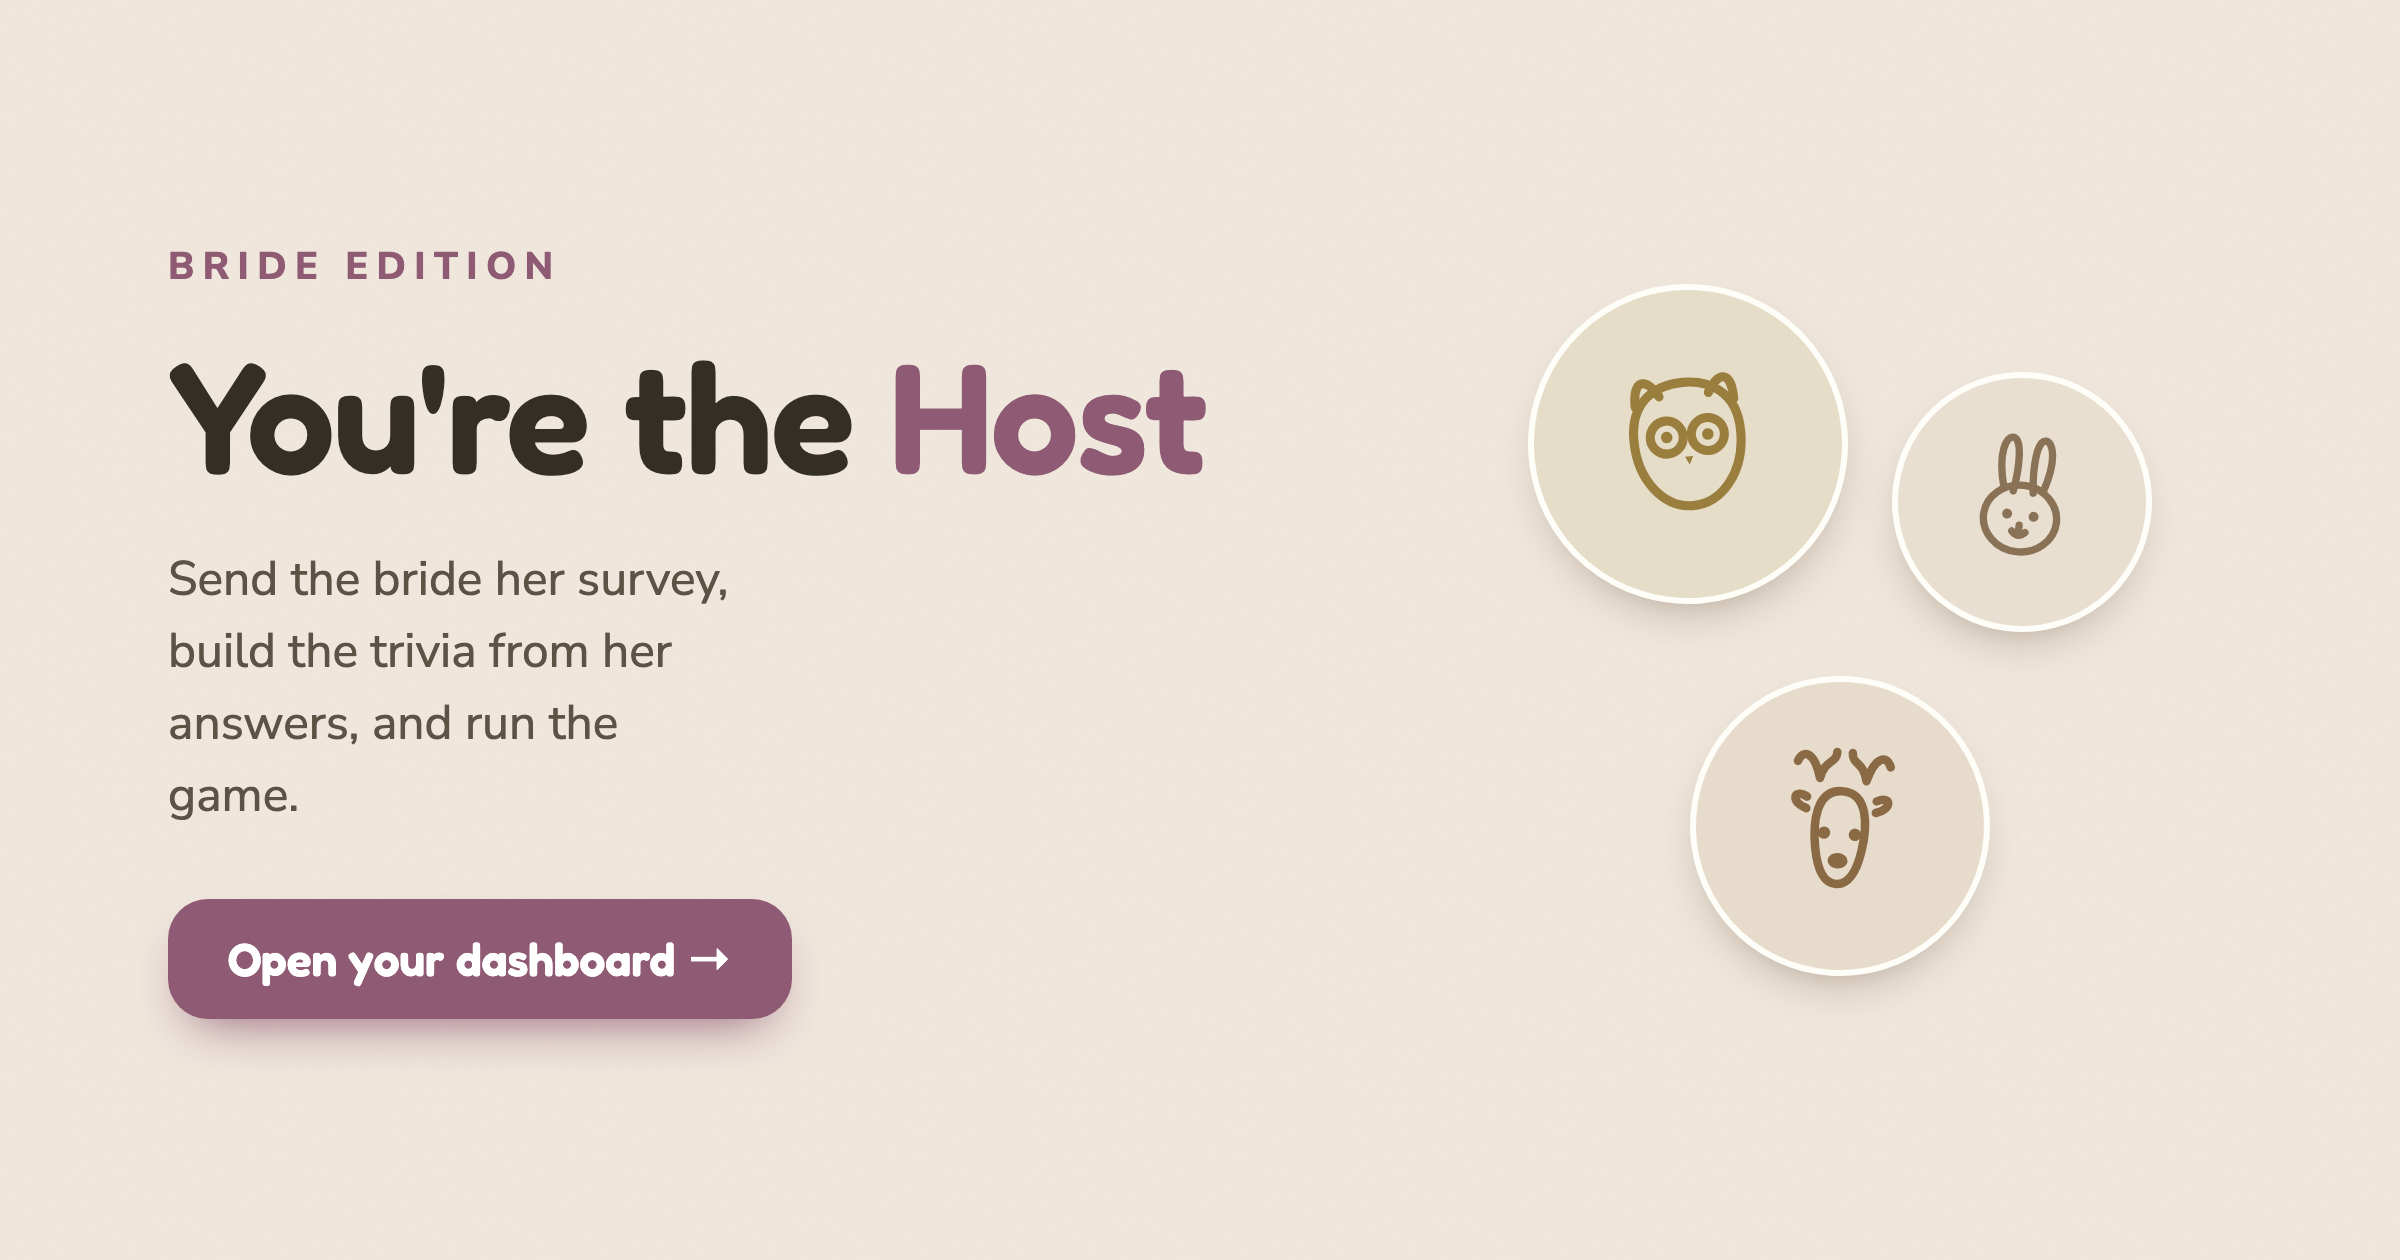
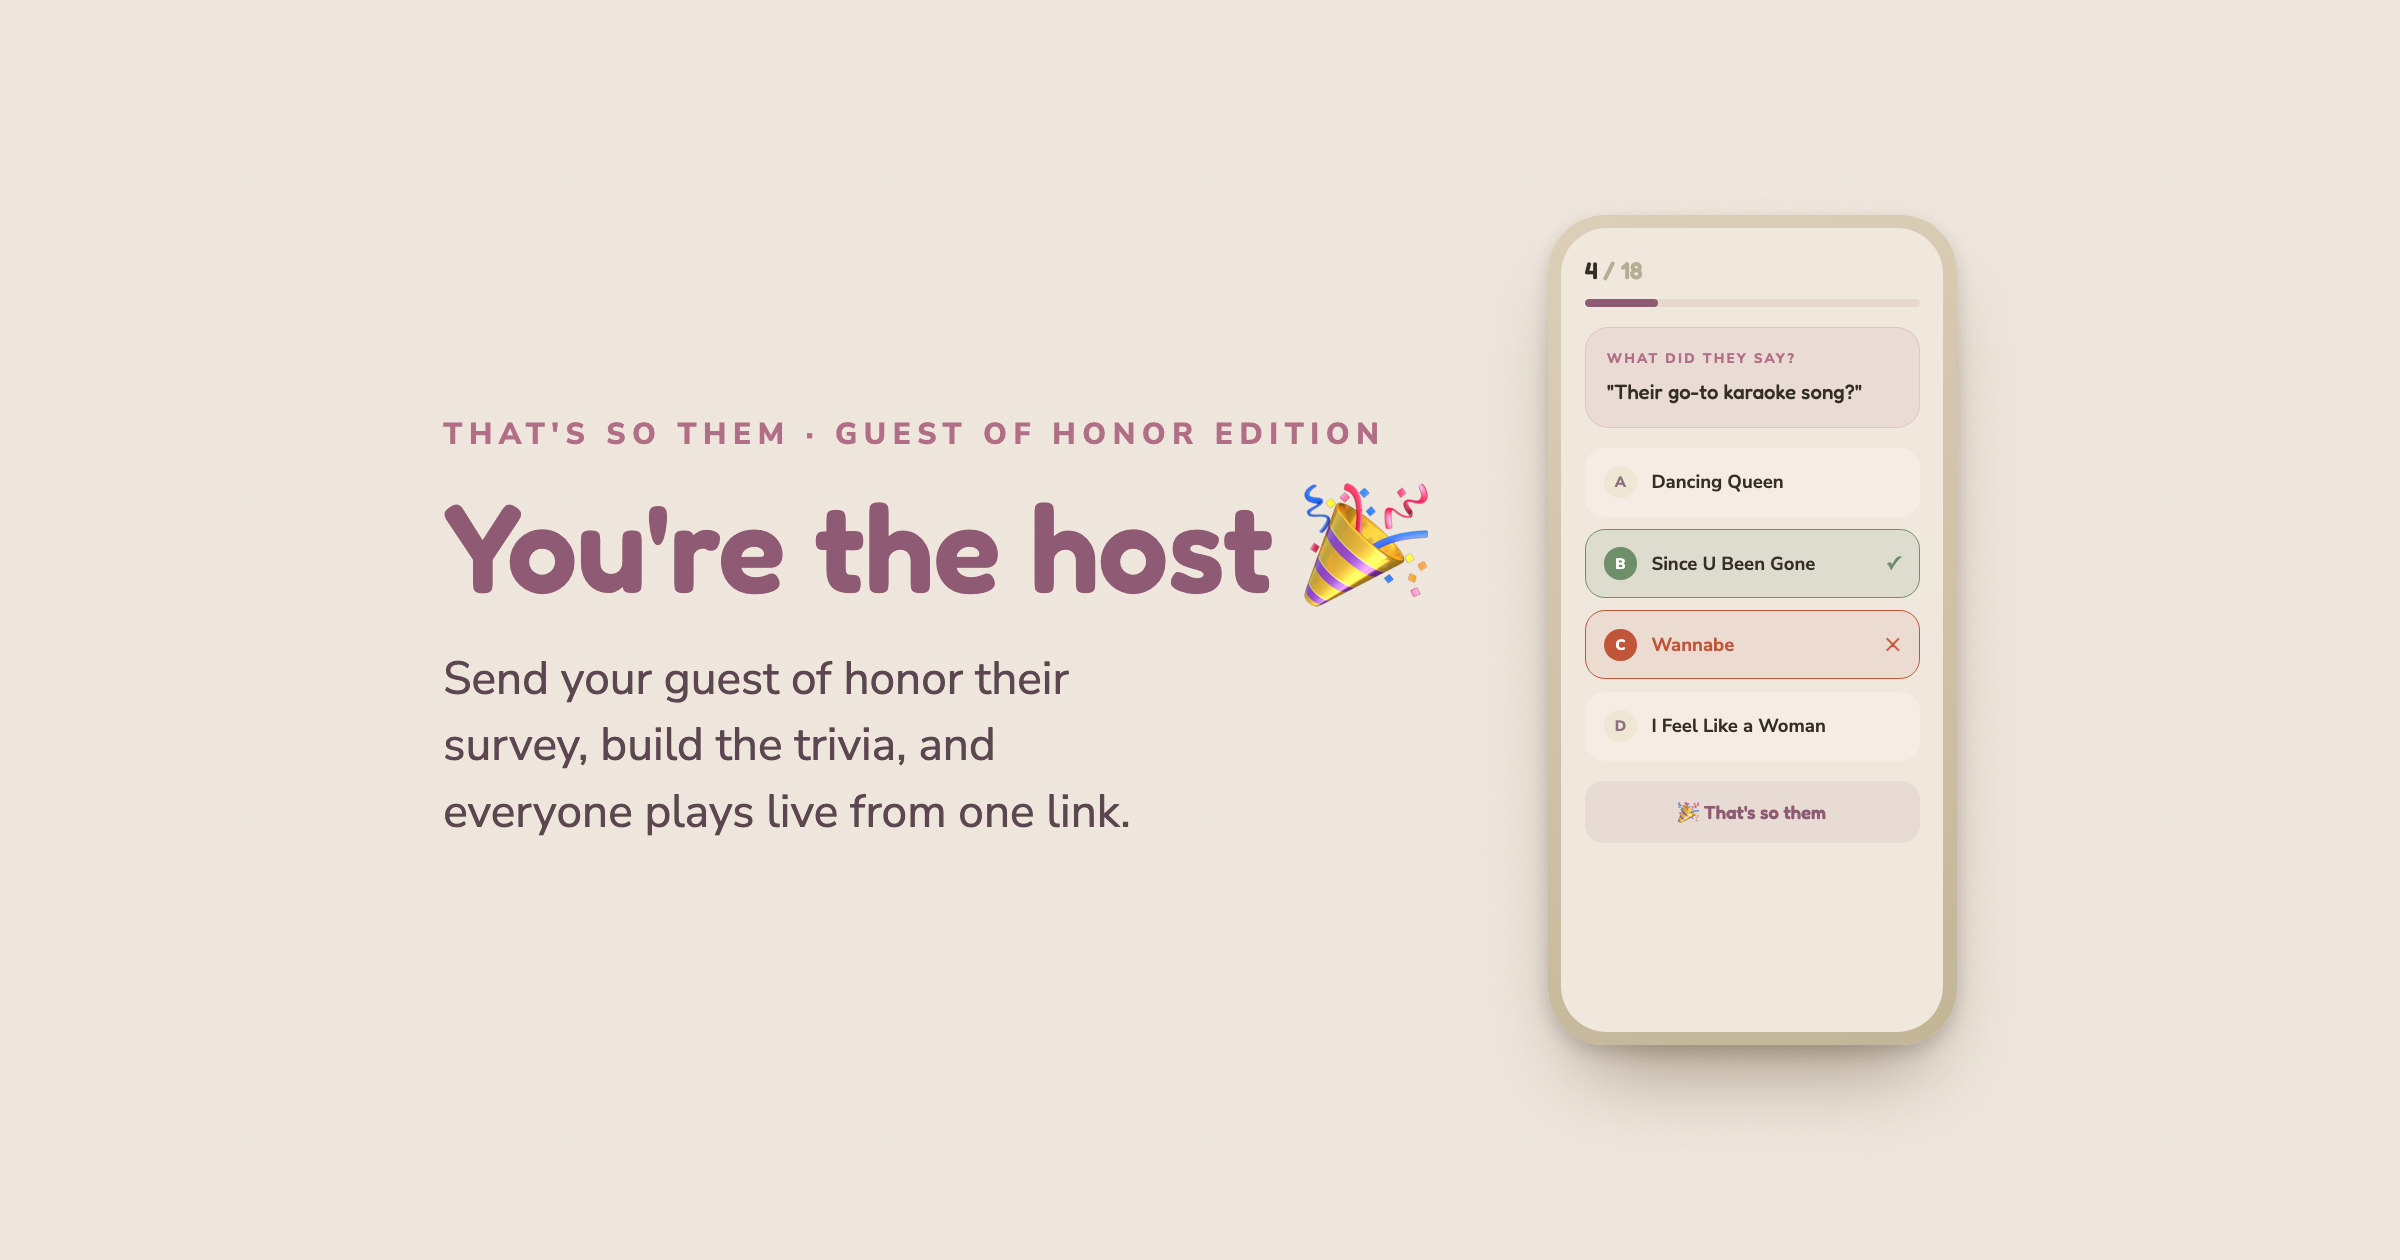
OG link-preview cards: rebrand bride survey/host/player to guest of honor (#23)
Match the app rebrand (How Well Do You Know Them?). The three preview pages
served by the Netlify role=bride / ed=bride rewrites now show neutral
guest-of-honor copy instead of bridal wording, and the three OG images
(og-bride*.png, 2400x1260) were regenerated in the plum/blush guest-of-honor
style. Kept the file/image names and the role=bride param so the existing
Netlify rewrites keep firing.

diff --git a/bride-host.html b/bride-host.html
@@ -3,25 +3,25 @@
   <head>
     <meta charset="UTF-8" />
     <meta name="viewport" content="width=device-width, initial-scale=1.0" />
-    <title>You're the Host · Bride Edition 💍</title>
+    <title>You're the Host 🎉</title>
     <link rel="icon" type="image/svg+xml" href="/logo.svg" />
 
     <!-- Bride Edition HOST-link preview (served by Netlify for host links that
          carry ?ed=bride). Boots the same app as index.html — only the preview
          tags differ, so the customer sees a bridal "you're the host" card. -->
-    <meta name="description" content="Your Bride Edition trivia is ready — send the bride her survey, add the guesses, and let everyone play." />
+    <meta name="description" content="Your game is ready. Send your guest of honor their survey, add the guesses, and let everyone play." />
     <meta property="og:type" content="website" />
-    <meta property="og:site_name" content="A Bridal Party Game" />
-    <meta property="og:title" content="You're the Host · Bride Edition 💍" />
-    <meta property="og:description" content="Your Bride Edition trivia is ready — send the bride her survey, add the guesses, and let everyone play." />
+    <meta property="og:site_name" content="That's So Them" />
+    <meta property="og:title" content="You're the Host 🎉" />
+    <meta property="og:description" content="Your game is ready. Send your guest of honor their survey, add the guesses, and let everyone play." />
     <meta property="og:url" content="/" />
     <meta property="og:image" content="/og-bride-host.png" />
     <meta property="og:image:width" content="2400" />
     <meta property="og:image:height" content="1260" />
-    <meta property="og:image:alt" content="You're the host — Bride Edition, a bridal party game" />
+    <meta property="og:image:alt" content="You're the host · That's So Them" />
     <meta name="twitter:card" content="summary_large_image" />
-    <meta name="twitter:title" content="You're the Host · Bride Edition 💍" />
-    <meta name="twitter:description" content="Your Bride Edition trivia is ready — send the bride her survey, add the guesses, and let everyone play." />
+    <meta name="twitter:title" content="You're the Host 🎉" />
+    <meta name="twitter:description" content="Your game is ready. Send your guest of honor their survey, add the guesses, and let everyone play." />
     <meta name="twitter:image" content="/og-bride-host.png" />
     <style>
       * { margin: 0; padding: 0; box-sizing: border-box; }

diff --git a/bride.html b/bride.html
@@ -3,25 +3,25 @@
   <head>
     <meta charset="UTF-8" />
     <meta name="viewport" content="width=device-width, initial-scale=1.0" />
-    <title>The Bride Survey 💍</title>
+    <title>Your Survey 🎉</title>
     <link rel="icon" type="image/svg+xml" href="/logo.svg" />
 
     <!-- Bride-survey link preview (served by Netlify for ?role=bride links).
          Boots the same app as index.html — only the preview tags differ, so the
          bride sees a personal card instead of the generic game one. -->
-    <meta name="description" content="Fill in a few fun questions about yourself — your besties will try to guess your answers at the celebration!" />
+    <meta name="description" content="Fill in a few fun questions about yourself, and your friends will try to guess your answers at the party!" />
     <meta property="og:type" content="website" />
-    <meta property="og:site_name" content="A Bridal Party Game" />
-    <meta property="og:title" content="The Bride Survey 💍" />
-    <meta property="og:description" content="Fill in a few fun questions about yourself — your besties will try to guess your answers at the celebration!" />
+    <meta property="og:site_name" content="That's So Them" />
+    <meta property="og:title" content="Your Survey 🎉" />
+    <meta property="og:description" content="Fill in a few fun questions about yourself, and your friends will try to guess your answers at the party!" />
     <meta property="og:url" content="/" />
     <meta property="og:image" content="/og-bride.png" />
     <meta property="og:image:width" content="2400" />
     <meta property="og:image:height" content="1260" />
-    <meta property="og:image:alt" content="The Bride Survey — a bridal party game" />
+    <meta property="og:image:alt" content="Your survey · That's So Them" />
     <meta name="twitter:card" content="summary_large_image" />
-    <meta name="twitter:title" content="The Bride Survey 💍" />
-    <meta name="twitter:description" content="Fill in a few fun questions about yourself — your besties will try to guess your answers at the celebration!" />
+    <meta name="twitter:title" content="Your Survey 🎉" />
+    <meta name="twitter:description" content="Fill in a few fun questions about yourself, and your friends will try to guess your answers at the party!" />
     <meta name="twitter:image" content="/og-bride.png" />
     <style>
       * { margin: 0; padding: 0; box-sizing: border-box; }

diff --git a/bride-player.html b/bride-player.html
@@ -3,25 +3,25 @@
   <head>
     <meta charset="UTF-8" />
     <meta name="viewport" content="width=device-width, initial-scale=1.0" />
-    <title>You're Invited · Bride Edition 💍</title>
+    <title>You're Invited 🎉</title>
     <link rel="icon" type="image/svg+xml" href="/logo.svg" />
 
     <!-- Bride Edition PLAYER/join-link preview (served by Netlify for player
          links that carry ?ed=bride). Boots the same app as index.html — only
          the preview tags differ, so guests see a bridal invite card. -->
-    <meta name="description" content="Tap to join and guess how well you really know the bride — right from your phone." />
+    <meta name="description" content="Tap to join and guess how well you really know the guest of honor, right from your phone." />
     <meta property="og:type" content="website" />
-    <meta property="og:site_name" content="A Bridal Party Game" />
-    <meta property="og:title" content="You're Invited · Bride Edition 💍" />
-    <meta property="og:description" content="Tap to join and guess how well you really know the bride — right from your phone." />
+    <meta property="og:site_name" content="That's So Them" />
+    <meta property="og:title" content="You're Invited 🎉" />
+    <meta property="og:description" content="Tap to join and guess how well you really know the guest of honor, right from your phone." />
     <meta property="og:url" content="/" />
     <meta property="og:image" content="/og-bride-player.png" />
     <meta property="og:image:width" content="2400" />
     <meta property="og:image:height" content="1260" />
-    <meta property="og:image:alt" content="You're invited — a bride-edition party game" />
+    <meta property="og:image:alt" content="You're invited · That's So Them" />
     <meta name="twitter:card" content="summary_large_image" />
-    <meta name="twitter:title" content="You're Invited · Bride Edition 💍" />
-    <meta name="twitter:description" content="Tap to join and guess how well you really know the bride — right from your phone." />
+    <meta name="twitter:title" content="You're Invited 🎉" />
+    <meta name="twitter:description" content="Tap to join and guess how well you really know the guest of honor, right from your phone." />
     <meta name="twitter:image" content="/og-bride-player.png" />
     <style>
       * { margin: 0; padding: 0; box-sizing: border-box; }
